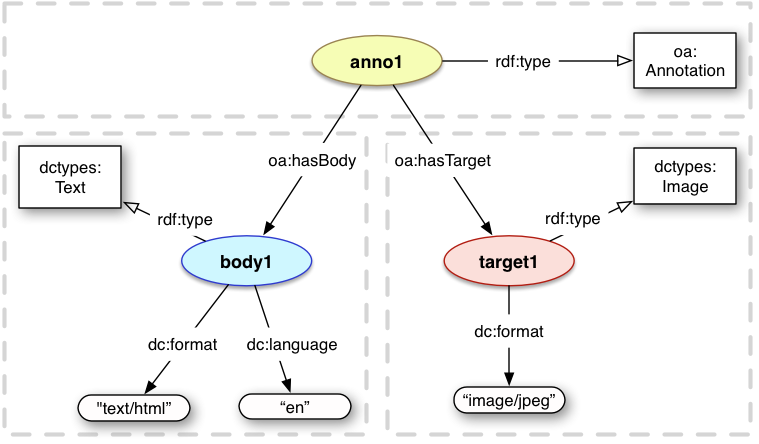
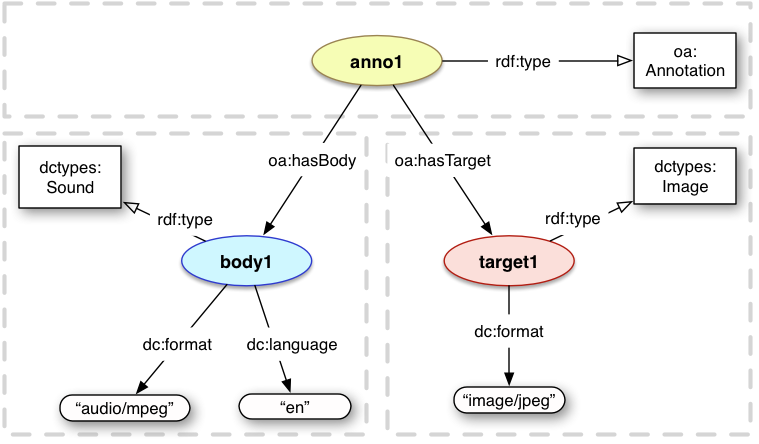
fixes from Paolo

diff --git a/model_fpwd/index.html b/model_fpwd/index.html
@@ -179,15 +179,21 @@ associated with a method that is otherwise necessary.
 <p>
 The examples throughout the document are serialized primarily as [[JSON-LD]] using the Context given in <a href="#json-ld-context">Appendix B</a>, and also as [[Turtle]] with the prefixes taken from the namespace declarations given in <a href="#namespaces">Appendix A</a>.  They do not represent specific use cases with real resources.
 </p>
+
+<p>
+<b>Note Well:</b> The examples serialized in JSON-LD use keys in the style of <code>body</code> and <code>target</code> in place of the equivalent <code>oa:hasBody</code> and <code>oa:hasTarget</code>. This choice keeps the JSON representation simple and it is made possible by the application of the JSON-LD context, detailed in <a href="#json-ld-context">Appendix B</a>. 
+</p>
+
 <p>The diagrams use the following style</p>
 
 <ul>
 <li>Instances are depicted as colored ellipses.</li>
+<li>Instances without a URI are depicted as colored ellipses with double lines.</li>
 <li>Classes are depicted as white rectangles.</li>
 <li>Literals are depicted as white lozenges.</li>
 <li>Relationships and properties are depicted as straight, black lines.</li>
 <li>Class instantiation is depicted as a straight black line with white arrow head.</li>
-<li>Example instance identifiers are lowercase and end in a number.<br/>  For example, <code>anno1</code> is a specific instance of an Annotation, whereas <code class="tech">oa:Annotation</code> is a class.</li>
+<li>Example instance identifiers are lowercase and end in a number.<br/>  For example, <code>anno1</code> is a specific instance of an Annotation, whereas <code>oa:Annotation</code> is a class.</li>
 <li>Example literals follow the requirements for the model and, thus, must not be interpreted as the only possible value.</li>
 <li>Lists are depicted as vertical braces with a gray background and '...' in the middle (regardless of if there are actually other items in the list or not).</li>
 <li>Conceptual resource boundaries not explicit in the model, but considered important for understanding, are depicted as grey dashed boxes around the components.  They are used to convey spatial parts of the diagrams and may be safely ignored.</li>
@@ -337,7 +343,7 @@ The simplest type of Body is a plain text note, without additional information o
 
 <p>When these requirements are not met, the annotation MUST use the <a href="#embedded-textual-body">Embedded Textual Body</a> form instead.</p>
 
-<p><b>Note Well:</b> When the body is a string in the JSON-LD serialization, it is always a string literal.  In order for <code>body</code> value to be a URI, it MUST be in the <code>{"@id": "URI"}</code> form, otherwise it will be considered a string literal.  However, as <code>target</code> MUST NOT be a string literal, it MAY be given as either a string or in the json object form.  This is a side effect of allowing string literal bodies.
+<p><b>Note Well:</b> When the body is a string in the JSON-LD serialization, it is always a string literal.  In order for <code>body</code> value to be a URI, it MUST be in the <code>{"@id": "URI"}</code> form, otherwise it will be considered a string literal.  However, as <code>target</code> MUST NOT be a string literal, it MAY be given as either a string or in the JSON object form.  This is a side effect of allowing string literal bodies.
 </p>
 
 <h4>Vocabulary</h4>
@@ -418,7 +424,7 @@ The Target MUST always be a resource with a URI.  The Body MUST be a resource, o
 	"@type":"oa:Annotation",
 	"body": {
 		"@id":"http://example.org/body1",
-		"@type":"dctypes:Text"
+		"@type":"dctypes:Sound"
 	},
 	"target": {
 		"@id": "http://example.org/target1",
@@ -433,7 +439,7 @@ The Target MUST always be a resource with a URI.  The Body MUST be a resource, o
     oa:hasBody &lt;body1&gt; ;
     oa:hasTarget &lt;target1&gt; .
 
-&lt;body1&gt; a dctypes:Text .
+&lt;body1&gt; a dctypes:Sound .
 &lt;target1&gt; a dctypes:Image .</pre>
 </div>
 </div>
@@ -481,8 +487,8 @@ The representations of the Body and Target resources MAY be of any <a href="http
 	"@type": "oa:Annotation",
 	"body": {
 		"@id": "http://example.org/body1",
-		"@type": "dctypes:Text",
-		"format": "text/html",
+		"@type": "dctypes:Sound",
+		"format": "audio/mpeg",
 		"language": "en"
 	},
 	"target": {
@@ -499,8 +505,8 @@ The representations of the Body and Target resources MAY be of any <a href="http
     oa:hasBody &lt;body1&gt; ;
     oa:hasTarget &lt;target1&gt; .
 
-&lt;body1&gt; a dctypes:Text ;
-    dc:format "text/html" ;
+&lt;body1&gt; a dctypes:Sound ;
+    dc:format "audio/mpeg" ;
     dc:language "en" .
 
 &lt;target1&gt; a dctypes:Image ;
@@ -543,7 +549,7 @@ There MUST be exactly 1 <code>rdf:value</code> property associated with the Cont
 	"@id": "http://example.org/anno1",
 	"@type":"oa:Annotation",
 	"body": {
-		"@type" : "EmbeddedContent",
+		"@type" : "oa:EmbeddedContent",
 		"value" : "content",
 		"format" : "text/plain",
 		"language" : "en"
@@ -555,17 +561,17 @@ There MUST be exactly 1 <code>rdf:value</code> property associated with the Cont
 <div id="eg5-2">
 <pre class="example highlight" title="Embedded Textual Body (Turtle)">
 &lt;anno1&gt; a oa:Annotation ;
-    oa:hasBody &lt;body1&gt; ;
-    oa:hasTarget &lt;target1&gt; .
-    
-&lt;body1&gt; a oa:EmbeddedContent;
-    rdf:value "content" ;
-    dc:language "en" ;
-    dc:format "text/plain" .</pre>
+    oa:hasTarget &lt;target1&gt; ;
+    oa:hasBody [
+        a oa:EmbeddedContent;
+        rdf:value "content" ;
+        dc:language "en" ;
+        dc:format "text/plain" .
+    ] .    
+</pre>
 </div>
 </div>
 </section>
-
 
 <section>
 <h3>Tags</h3>
@@ -618,11 +624,11 @@ The <a href="#embedded-textual-body">embedded textual body</a> pattern is used f
 <div id="eg6-2">
 	<pre class="example highlight" title="Textual Tag (Turtle)">
 &lt;anno1&gt; a oa:Annotation ;
-    oa:hasBody &lt;tag1&gt; ;
-    oa:hasTarget &lt;target1&gt; .
-    
-&lt;tag1&gt; a oa:Tag, oa:EmbeddedContent ;
-    rdf:value "paris" .
+    oa:hasTarget &lt;target1&gt; ;
+    oa:hasBody [
+        a oa:Tag, oa:EmbeddedContent ;
+        rdf:value "paris" .
+    ] .
 
 &lt;target1&gt; a dctypes:Image .</pre>
 </div>
@@ -647,7 +653,7 @@ In the Linked Data, URIs are used instead of strings to avoid the issue of polys
 <tr><th>Item</th><th>Type</th><th>Description</th></tr>
 <tr><td>oa:SemanticTag</td><td>Class</td><td>[subClass of oa:Tag] A class assigned to the Body when it is a semantic tagging resource; a URI that identifies a concept, rather than an embedded string, frequently a term from a controlled vocabulary</td></tr>
 <tr><td>foaf:page</td><td>Relationship</td><td>The foaf:page relationship expresses the link between a Semantic Tag and the document that describes the tagging concept.</td></tr>
-<tr><td>skos:related</td><td>Relationship</td><td>The skos:related relationship expesses the link between a Semantic Tag and its concept.</td></tr>
+<tr><td>skos:related</td><td>Relationship</td><td>The skos:related relationship expresses the link between a Semantic Tag and its concept.</td></tr>
 </table>
 
 <h4>Serialization</h4>
@@ -681,11 +687,11 @@ In the Linked Data, URIs are used instead of strings to avoid the issue of polys
 <div id="eg7-2">
   <pre class="example highlight" title="Semantic Tag, referring to a Concept (Turtle)">
 &lt;anno1&gt; a oa:Annotation ;
-    oa:hasBody &lt;tag1&gt; ;
-    oa:hasTarget &lt;target1&gt; .
-
-&lt;tag1&gt; a oa:SemanticTag ;
-    skos:related &lt;http://dbpedia.org/resource/Paris&gt; .
+    oa:hasTarget &lt;target1&gt; ;
+    oa:hasBody [
+        a oa:SemanticTag ;
+        skos:related &lt;http://dbpedia.org/resource/Paris&gt; .
+    ] .
 
 &lt;target1&gt; a dctypes:Image .</pre>
   </div>
@@ -720,13 +726,13 @@ In the Linked Data, URIs are used instead of strings to avoid the issue of polys
 <div id="eg8-2">
 	<pre class="example hightlight" title="Semantic Tag, referring to a Document (Turtle)">  
 &lt;anno1&gt; a oa:Annotation ;
-    oa:hasBody &lt;tag1&gt; ;
     oa:hasTarget &lt;target1&gt; ;
+    oa:hasBody [
+        a oa:SemanticTag ;
+        foaf:page &lt;http://en.wikipedia.org/wiki/Paris&gt; .
+    ] .
 
-  &lt;tag1&gt; a oa:SemanticTag ;
-    foaf:page &lt;http://en.wikipedia.org/wiki/Paris&gt; .
-
-  &lt;target1&gt; a dctypes:Image .</pre>
+&lt;target1&gt; a dctypes:Image .</pre>
 </div>
 </div>
 </section>
@@ -745,7 +751,7 @@ In the Architecture of the World Wide Web [[webarch]], segments of resources are
 <li>Most fragments are defined with respect to individual media types, and not every media type has a fragment specification.</li>
 <li>Even if a media type does have a fragment definition, it is often not possible to describe the segment of interest sufficiently precisely.  For example, fragments for HTML cannot be used to describe an arbitrary range of text.</li>
 <li>It is not possible to determine with certainty what is being identified without knowing the media type, as the same fragment string might be possible in different specifications.  For example, the same fragment string could identify either a rectangular area in an image, or a strangely named section of an HTML document.</li>
-<li>Fragment URIs are not compatible with other methods of describing the segment more specifically, described in the <a href="#specific-resources">Specific Resources</a> section of this specification.  It is recognized that this additional level of description is not required in all scenarios.</li>
+<li>Fragment URIs are not compatible with other methods of describing the segment more specifically, described in the <a href="#specifiers">Specific Resources</a> section of this specification.  It is recognized that this additional level of description is not required in all scenarios.</li>
 <li>As URIs are considered to be opaque strings, annotation systems may not discover annotations with fragment URIs
  when searching by means of the URI without the fragment.  For example, an Annotation with the Target 
  <code>http://example.com/image.jpg#xywh=1,1,1,1</code> would not be discovered in a simple search for
@@ -941,7 +947,7 @@ both advertising and debugging.
 </p>
 
 <p>A complete mapping for the Annotation's provenance in the PROV [[prov-o]] model is provided
- in <a href="#provenance-mapping">Appendix A</a>.  Please note that the Annotation node primarily represents the concept of the Annotation, but for simplicity the model allows serialization level properties to be attached to it.  If a more accurate model with distinct identifiers is required for particular use cases, then the model expressed in Appendix A is RECOMMENDED.</p>
+ in <a href="#mapping-to-provenance-model">Appendix A</a>.  Please note that the Annotation node primarily represents the concept of the Annotation, but for simplicity the model allows serialization level properties to be attached to it.  If a more accurate model with distinct identifiers is required for particular use cases, then the model expressed in Appendix A is RECOMMENDED.</p>
 
 <h4>Vocabulary</h4>
 
@@ -1296,7 +1302,7 @@ either to express a choice between different optional, equivalent selectors, or 
  that should all be processed, it is necessary to use the constructions described in the <a href="#multiplicity">Multiplicity</a> module.
 </p>
 
-<p>Typically if all of the information needed to resolve the Selector (or other Specifier) is present within the graph, such as is the case for the FragmentSelector, TextQuoteSelector, TextPositionSelector and DataPositionSelector classes, then there is no need to have a resolvable resource that provides the same information. However for the SvgSelector any other specifiers that have a representation with a life of its own, it may be easier or more efficient to have the [[SVG]] document resolvable separately from the Annotation via an HTTP URI.
+<p>Typically if all of the information needed to resolve the Selector (or other Specifier) is present within the graph, such as is the case for the FragmentSelector, TextQuoteSelector, TextPositionSelector and DataPositionSelector classes, then there is no need to have a resolvable resource that provides the same information. However for the SvgSelector any other Specifiers that have a representation with a life of its own, it may be easier or more efficient to have the [[SVG]] document resolvable separately from the Annotation via an HTTP URI.
 </p>
 
 <p>It must also be noted that the model allows several equivalent expressions of the same segment of interest.  For example, to describe a rectangular area, it is possible to use URIs with fragments directly (as in the Core document), the FragmentSelector class, or the SvgSelector.  Similarly for plain text documents, either RFC 5147 or the Text Selectors could be used. While this is not optimal from an interoperability perspective, this could not be avoided at the same time as keeping the Web Annotation model flexible and compatible with existing specifications.  It is RECOMMENDED that communities implement shared bridging strategies and follow the recommendations of the specification and any best practice documents wherever possible.</p>
@@ -1748,7 +1754,7 @@ at the center of the image, then the SVG element would be:
 <code>&lt;circle cx="300" cy="200" r="100"/&gt;</code></p>
 
 <p>It is NOT RECOMMENDED to include style information within the SVG
-element, nor Javascript, animation, text or other non shape oriented
+element, nor Javascript, animation, text or other non-shape oriented
 information. Clients SHOULD ignore such information if present.</p>
 
 <p>The SVG document MAY be a separate resource, or embedded within the annotation's serialization.
@@ -1922,7 +1928,7 @@ SpecificResource.</td></tr>
 <h3>Time State</h3>
 
 <p>
-A Time State specifier records the time at which the resource is appropriate for the Annotation, typically the time that the Annotation was created.  Consuming applications can then use that information to discover an appropriate representation of the resource from that time, for example using the Memento [[rfc7089]] protocol.  The State may also have a link directly to an appropriate cached or archived copy of the resource's representation from that time.</p>
+A Time State resource records the time at which the resource is appropriate for the Annotation, typically the time that the Annotation was created.  Consuming applications can then use that information to discover an appropriate representation of the resource from that time, for example using the Memento [[rfc7089]] protocol.  The State may also have a link directly to an appropriate cached or archived copy of the resource's representation from that time.</p>
 
 <h4>Vocabulary</h4>
 
@@ -2211,6 +2217,7 @@ There MAY be 0 or more styleClass properties on a Specific Resource.</td></tr>
   "@id": "http://example.org/anno1",
   "@type": "oa:Annotation",
   "stylesheet": {
+    "@id": "http://example.org/style1"
     "@type": ["oa:CssStyle", "oa:EmbeddedContent"],
     "value": ".red { color: red }",
     "format": "text/css"
@@ -2249,7 +2256,7 @@ There MAY be 0 or more styleClass properties on a Specific Resource.</td></tr>
 	</p>
 
 	<p>As such scoping information is only true for a particular Annotation, it must be attached to a Specific Resource, 
-	and not to the Source directly.  This is true even if there is neither a Selector or a State, as other Annotations that refer to the Source would otherwise incorrectly inherit this assertion.  The object of the <code>oa:hasScope</code> relationship is the resource that somehow scopes or provides the context 
+	and not to the Source directly.  This is true even if there is neither a Selector nor a State, as other Annotations that refer to the Source would otherwise incorrectly inherit this assertion.  The object of the <code>oa:hasScope</code> relationship is the resource that somehow scopes or provides the context 
 	for the resource in this Annotation.  
 	For example, in the diagram below, the resource named "scope1" could be the webpage "http://www.example.com/index.html", 
 	and the Source resource "target1" could be an image "http://www.example.com/images/logo.jpg", where the 
@@ -2312,7 +2319,7 @@ There MAY be 0 or more hasScope relationships for each Specific Resource.
 	that each resource is related to the others individually, however this is not always the case.  It is useful to 
 	associate the Annotation with one resource from a group of alternatives, for example to have a comment that is 
 	available in three different languages and for the user's client to display only the most appropriate one.  
-	Or to annotate a set of resources where all of the resources are equally important, as is the case when comparing resources with each other.  In this case, the comment does not apply individually to the resources, it applies to all of them together.  
+	Or to annotate a set of resources where all of the resources are equally important, as is the case when comparing resources with each other.  In this case, the comment does not apply individually to each resource, it applies to all of them together.  
 	Finally, it is useful to consider ordering that set of resources, particularly for grouping Selectors that must be processed in the correct sequence to extract the intended segment. 
 	</p>
 
@@ -2371,11 +2378,12 @@ however the same patterns follow for all of the relationships and structures com
 </pre>	
 	</div><div id="eg30-2"><pre class="example highlight" title="Choice (Turtle)">
 &lt;anno1&gt; a oa:Annotation ;
-    oa:hasBody &lt;choice1&gt; ;
-    oa:hasTarget &lt;target1&gt; .
-    
-&lt;choice1&gt; a oa:Choice ;
-    oa:members (&lt;body1&gt; &lt;body2&gt;) .</pre>
+    oa:hasTarget &lt;target1&gt; ;
+    oa:hasBody [
+        a oa:Choice ;
+        oa:members (&lt;body1&gt; &lt;body2&gt;) .
+    ] .
+</pre>
 </div>
 </div>
 </section>
@@ -2433,11 +2441,11 @@ A Composite MUST have 1 or more items.
 	</div><div id="eg31-2"><pre class="example highlight" title="Composite (Turtle)">
 &lt;anno1&gt; a oa:Annotation ;
     oa:hasBody &lt;body1&gt; ;
-    oa:hasTarget &lt;comp1&gt; .
-    
-&lt;comp1&gt; a oa:Composite ;
-    oa:item &lt;target1&gt; ;
-    oa:item &lt;target2&gt; .</pre>
+    oa:hasTarget [
+        a oa:Composite ;
+        oa:item &lt;target1&gt; ;
+        oa:item &lt;target2&gt; .
+    ] .</pre>
 </div>
 </div>
 </section>
@@ -2478,6 +2486,7 @@ A Composite MUST have 1 or more items.
   "@type": "oa:Annotation",
   "body": {"@id": "http://example.org/body1"},
   "target": {
+    "@id": "http://example.org/sptarget1",
     "@type": "oa:SpecificResource",
     "source": "http://example.org/target1",
     "selector": {
@@ -2497,10 +2506,10 @@ A Composite MUST have 1 or more items.
     
 &lt;sptarget1&gt; a oa:SpecificResource ;
     oa:hasSource &lt;target1&gt; ;
-    oa:hasSelector &lt;list1&gt; .
-
-&lt;list1&gt; a oa:List ;
-    oa:members ( &lt;selector1&gt; &lt;selector2&gt; ) .
+    oa:hasSelector [
+        a oa:List ;
+        oa:members ( &lt;selector1&gt; &lt;selector2&gt; ) .
+    ] .
 </pre>
 </div>
 </div>
